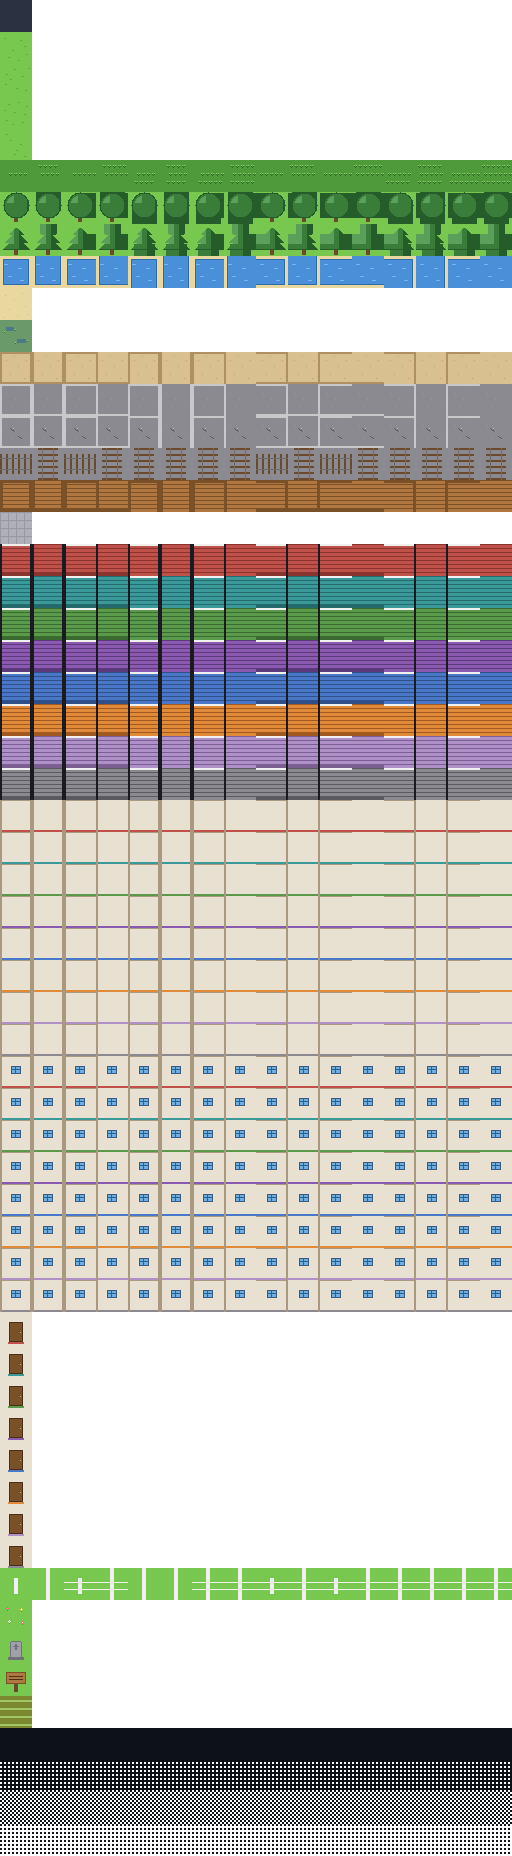
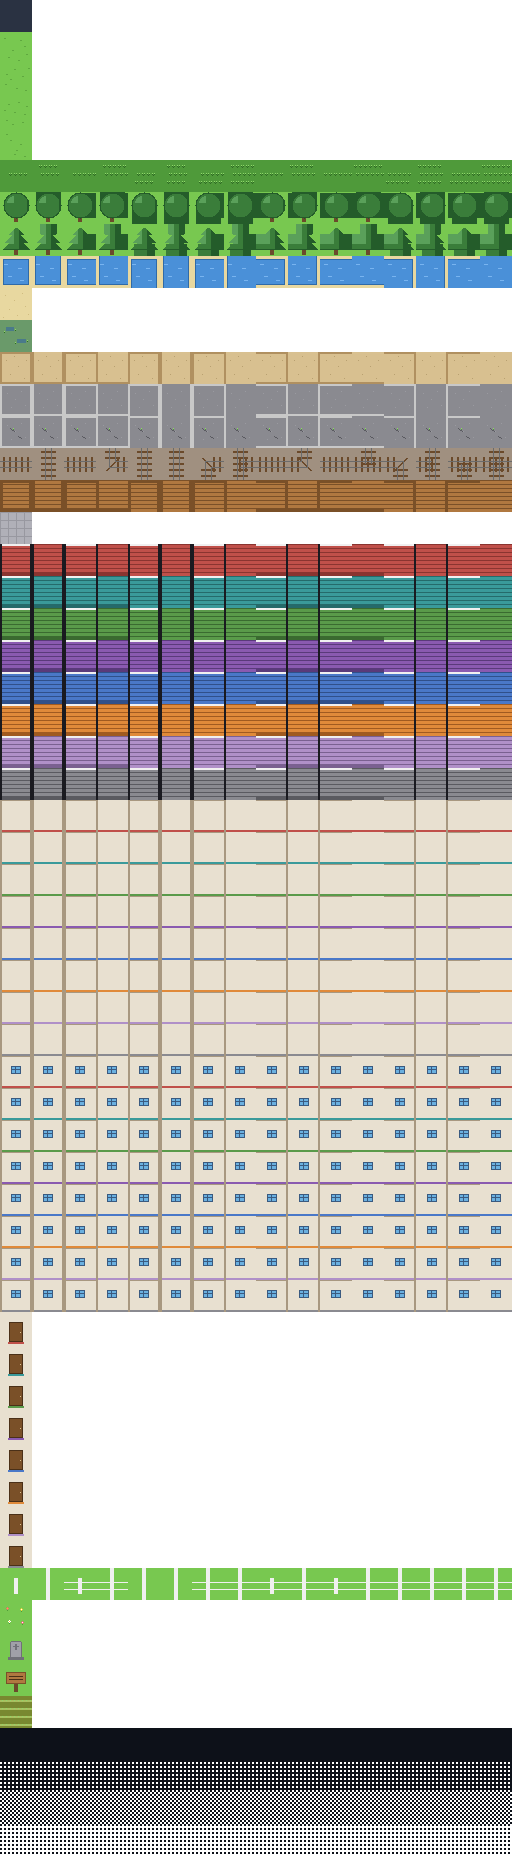
feat(item-14): connected rail art and connector tile rendering (F53)
WHY:
In pass-17 placeholder art, RAIL was rendered straight-only (vertical if N or S
was set, else horizontal) within framed tiles. A 4-connected stair-stepped
diagonal therefore rendered as a trail of disconnected, framed boxes rather
than continuous track.

WHAT WAS BUILT:
1. tools/gen_placeholder_atlas.py (§10.4):
   - Redrew RAIL as a connector tile with full-tile gravel ballast bed (#a09080)
     and no frame borders.
   - Set parallel rails 6 px apart (x=13, 19 for vertical; y=13, 19 for horizontal).
   - Rendered sleepers every 6 px across tracks under the rails.
   - Extended tracks to opposite edge when exactly 1 bit is set; east-west track
     when 0 bits are set.
   - Connected adjacent bits at the center as an L-bend (N+E, S+E, S+W, N+W),
     allowing stair-stepped diagonals to read as continuous zig-zag track.
   - Refactored build_atlas() to support direct unit testing.
2. Regenerated game/assets/tiles/placeholder_v1.png, placeholder_v1.json, and
   assets/palette/tenth_spring.gpl.
3. Added falsifying test test_rail_connected_art_falsifying in
   tools/test_gen_placeholder_atlas.py.
4. docs/ongoing_general_errors.md: F53 marked resolved in M45.

FALSIFICATION:
Ran test_rail_connected_art_falsifying against pass-17 art:
  FAIL: test_rail_connected_art_falsifying (__main__.TestGenPlaceholderAtlas.test_rail_connected_art_falsifying)
  Traceback (most recent call last):
[…]

Changed region(s): [[0.0, 0.2188, 1.0, 0.2812]]

diff --git a/tools/gen_placeholder_atlas.py b/tools/gen_placeholder_atlas.py
@@ -50,6 +50,7 @@ PALETTE = {
     "road_curb": (200, 200, 200, 255),     # #c8c8c8
     "road_crack": (90, 90, 96, 255),       # #5a5a60 / roof 7 shade
     # Rail & Bridge
+    "rail_ballast": (160, 144, 128, 255),  # #a09080
     "rail": (107, 107, 107, 255),          # #6b6b6b
     "bridge_plank": (176, 120, 64, 255),   # #b07840
     "bridge_rail": (122, 80, 40, 255),     # #7a5028 / door
@@ -145,6 +146,14 @@ class AtlasBuilder:
         py = row * TILE_SIZE + y
         idx = (py * WIDTH + px) * 4
         self.buffer[idx:idx + 4] = bytes(color)
+
+    def get_pixel(self, col: int, row: int, x: int, y: int) -> tuple:
+        if not (0 <= x < TILE_SIZE and 0 <= y < TILE_SIZE):
+            return (0, 0, 0, 0)
+        px = col * TILE_SIZE + x
+        py = row * TILE_SIZE + y
+        idx = (py * WIDTH + px) * 4
+        return tuple(self.buffer[idx:idx + 4])
 
     def fill_tile(self, col: int, row: int, color: tuple):
         for y in range(TILE_SIZE):
@@ -396,34 +405,148 @@ class AtlasBuilder:
             self.set_pixel(col, row, 13, 12, PALETTE["tall_tips"])
 
     def draw_rail(self, row: int, col: int, mask: int):
-        self.fill_tile(col, row, PALETTE["road"])  # gravel ballast
-        for sx, sy in [(5, 7), (15, 12), (25, 8), (10, 22), (22, 25)]:
-            self.set_pixel(col, row, sx, sy, PALETTE["road_speckle"])
+        ballast = PALETTE["rail_ballast"]
+        rail_col = PALETTE["rail"]
+        sleeper_col = PALETTE["tree_trunk"]
 
-        n_conn = (mask & 1) != 0
-        s_conn = (mask & 4) != 0
-        is_vert = n_conn or s_conn
+        # 1. Full-tile gravel bed (#a09080), with no frame (§10.4)
+        self.fill_tile(col, row, ballast)
 
-        if is_vert:
-            # Sleepers every 6 px
-            for y in range(TILE_SIZE):
-                if y % 6 in (0, 1):
-                    for x in range(6, 26):
-                        self.set_pixel(col, row, x, y, PALETTE["tree_trunk"])
-            # Two vertical rails
-            for y in range(TILE_SIZE):
-                self.set_pixel(col, row, 10, y, PALETTE["rail"])
-                self.set_pixel(col, row, 21, y, PALETTE["rail"])
+        # 2. Connection flags (Bit 0 = N (1), Bit 1 = E (2), Bit 2 = S (4), Bit 3 = W (8))
+        n = (mask & 1) != 0
+        e = (mask & 2) != 0
+        s = (mask & 4) != 0
+        w = (mask & 8) != 0
+
+        # With no bits set, it runs east–west (§10.4)
+        if not (n or e or s or w):
+            e = True
+            w = True
         else:
-            # Sleepers every 6 px
-            for x in range(TILE_SIZE):
-                if x % 6 in (0, 1):
-                    for y in range(6, 26):
-                        self.set_pixel(col, row, x, y, PALETTE["tree_trunk"])
-            # Two horizontal rails
-            for x in range(TILE_SIZE):
-                self.set_pixel(col, row, x, 10, PALETTE["rail"])
-                self.set_pixel(col, row, x, 21, PALETTE["rail"])
+            set_count = (1 if n else 0) + (1 if e else 0) + (1 if s else 0) + (1 if w else 0)
+            if set_count == 1:
+                # With exactly one bit set, track also runs to opposite edge (straight end piece)
+                if n: s = True
+                elif s: n = True
+                elif e: w = True
+                elif w: e = True
+
+        # 3. Sleepers (drawn first, across rails every 6 px)
+        # Vertical arms: sleepers across x in [9, 23]
+        if n:
+            for sy in (3, 4, 9, 10):
+                for sx in range(9, 24):
+                    self.set_pixel(col, row, sx, sy, sleeper_col)
+        if s:
+            for sy in (21, 22, 27, 28):
+                for sx in range(9, 24):
+                    self.set_pixel(col, row, sx, sy, sleeper_col)
+        # Horizontal arms: sleepers across y in [9, 23]
+        if w:
+            for sx in (3, 4, 9, 10):
+                for sy in range(9, 24):
+                    self.set_pixel(col, row, sx, sy, sleeper_col)
+        if e:
+            for sx in (21, 22, 27, 28):
+                for sy in range(9, 24):
+                    self.set_pixel(col, row, sx, sy, sleeper_col)
+
+        # Center sleepers
+        if n and s and not (e or w):
+            for sy in (15, 16):
+                for sx in range(9, 24):
+                    self.set_pixel(col, row, sx, sy, sleeper_col)
+        elif e and w and not (n or s):
+            for sx in (15, 16):
+                for sy in range(9, 24):
+                    self.set_pixel(col, row, sx, sy, sleeper_col)
+        elif n and e and not (s or w):
+            for d in range(-6, 7):
+                cx, cy = 16 + d, 16 - d
+                self.set_pixel(col, row, cx, cy, sleeper_col)
+                self.set_pixel(col, row, cx + 1, cy, sleeper_col)
+        elif s and e and not (n or w):
+            for d in range(-6, 7):
+                cx, cy = 16 + d, 16 + d
+                self.set_pixel(col, row, cx, cy, sleeper_col)
+                self.set_pixel(col, row, cx + 1, cy, sleeper_col)
+        elif s and w and not (n or e):
+            for d in range(-6, 7):
+                cx, cy = 16 + d, 16 - d
+                self.set_pixel(col, row, cx, cy, sleeper_col)
+                self.set_pixel(col, row, cx + 1, cy, sleeper_col)
+        elif n and w and not (s or e):
+            for d in range(-6, 7):
+                cx, cy = 16 + d, 16 + d
+                self.set_pixel(col, row, cx, cy, sleeper_col)
+                self.set_pixel(col, row, cx + 1, cy, sleeper_col)
+        elif (n or s) and (e or w):
+            for sy in (15, 16):
+                for sx in range(9, 24):
+                    self.set_pixel(col, row, sx, sy, sleeper_col)
+            for sx in (15, 16):
+                for sy in range(9, 24):
+                    self.set_pixel(col, row, sx, sy, sleeper_col)
+
+        # 4. Rails (two rails 6 px apart, meeting at centre)
+        if n and e and not (s or w):
+            # L-bend N + E
+            for y in range(0, 14):
+                self.set_pixel(col, row, 19, y, rail_col)
+            for x in range(19, 32):
+                self.set_pixel(col, row, x, 13, rail_col)
+            for y in range(0, 20):
+                self.set_pixel(col, row, 13, y, rail_col)
+            for x in range(13, 32):
+                self.set_pixel(col, row, x, 19, rail_col)
+        elif s and e and not (n or w):
+            # L-bend S + E
+            for y in range(13, 32):
+                self.set_pixel(col, row, 13, y, rail_col)
+            for x in range(13, 32):
+                self.set_pixel(col, row, x, 13, rail_col)
+            for y in range(19, 32):
+                self.set_pixel(col, row, 19, y, rail_col)
+            for x in range(19, 32):
+                self.set_pixel(col, row, x, 19, rail_col)
+        elif s and w and not (n or e):
+            # L-bend S + W
+            for y in range(13, 32):
+                self.set_pixel(col, row, 19, y, rail_col)
+            for x in range(0, 20):
+                self.set_pixel(col, row, x, 13, rail_col)
+            for y in range(19, 32):
+                self.set_pixel(col, row, 13, y, rail_col)
+            for x in range(0, 14):
+                self.set_pixel(col, row, x, 19, rail_col)
+        elif n and w and not (s or e):
+            # L-bend N + W
+            for y in range(0, 14):
+                self.set_pixel(col, row, 13, y, rail_col)
+            for x in range(0, 14):
+                self.set_pixel(col, row, x, 13, rail_col)
+            for y in range(0, 20):
+                self.set_pixel(col, row, 19, y, rail_col)
+            for x in range(0, 20):
+                self.set_pixel(col, row, x, 19, rail_col)
+        else:
+            # Straight tracks or T/4-way junctions
+            if n:
+                for y in range(0, 16):
+                    self.set_pixel(col, row, 13, y, rail_col)
+                    self.set_pixel(col, row, 19, y, rail_col)
+            if s:
+                for y in range(16, 32):
+                    self.set_pixel(col, row, 13, y, rail_col)
+                    self.set_pixel(col, row, 19, y, rail_col)
+            if w:
+                for x in range(0, 16):
+                    self.set_pixel(col, row, x, 13, rail_col)
+                    self.set_pixel(col, row, x, 19, rail_col)
+            if e:
+                for x in range(16, 32):
+                    self.set_pixel(col, row, x, 13, rail_col)
+                    self.set_pixel(col, row, x, 19, rail_col)
 
     def draw_bridge(self, row: int, col: int, mask: int):
         self.fill_tile(col, row, PALETTE["bridge_plank"])
@@ -679,8 +802,8 @@ class AtlasBuilder:
 
         return png_header + ihdr_chunk + idat_chunk + iend_chunk
 
-def generate_atlas_assets():
-    """Generates placeholder_v1.png, placeholder_v1.json, and tenth_spring.gpl."""
+def build_atlas():
+    """Builds AtlasBuilder, json_data dict, and gpl string."""
     # Define row allocations
     row_specs = []
     current_row = 0
@@ -813,8 +936,6 @@ def generate_atlas_assets():
     builder.draw_fog(fog_d50, 50)
     builder.draw_fog(fog_d25, 25)
 
-    png_bytes = builder.to_png_bytes()
-
     json_data = {
         "tile_px": TILE_SIZE,
         "rows": row_specs,
@@ -825,9 +946,14 @@ def generate_atlas_assets():
             "d25": fog_d25,
         },
     }
-    json_bytes = json.dumps(json_data, indent=2).encode("utf-8") + b"\n"
-    gpl_bytes = make_gpl_content().encode("utf-8")
+    return builder, json_data, make_gpl_content()
 
+def generate_atlas_assets():
+    """Generates placeholder_v1.png, placeholder_v1.json, and tenth_spring.gpl."""
+    builder, json_data, gpl_str = build_atlas()
+    png_bytes = builder.to_png_bytes()
+    json_bytes = json.dumps(json_data, indent=2).encode("utf-8") + b"\n"
+    gpl_bytes = gpl_str.encode("utf-8")
     return png_bytes, json_bytes, gpl_bytes
 
 def main():

diff --git a/tools/test_gen_placeholder_atlas.py b/tools/test_gen_placeholder_atlas.py
@@ -137,5 +137,29 @@ class TestGenPlaceholderAtlas(unittest.TestCase):
             self.assertTrue(0 <= g <= 255)
             self.assertTrue(0 <= b <= 255)
 
+    def test_rail_connected_art_falsifying(self):
+        """Falsifying assertion per agent guide §4 (Item 14):
+        In the RAIL tile for mask N + E (0b0011):
+        - Pixels at the centre of the north edge (y=0) and east edge (x=31) are rail colour.
+        - Pixels at the centre of the south edge (y=31) and west edge (x=0) are gravel/ballast."""
+        from gen_placeholder_atlas import build_atlas, PALETTE
+        builder, _, _ = build_atlas()
+        # Rail row is 14, mask N + E is 0b0011 = 3
+        rail_color = PALETTE["rail"]
+
+        # North edge: centre pixels have rail colour
+        north_center_has_rail = any(builder.get_pixel(3, 14, x, 0) == rail_color for x in range(32))
+        # East edge: centre pixels have rail colour
+        east_center_has_rail = any(builder.get_pixel(3, 14, 31, y) == rail_color for y in range(32))
+        # South edge: centre pixels do NOT have rail colour (gravel/ballast)
+        south_center_has_rail = any(builder.get_pixel(3, 14, x, 31) == rail_color for x in range(32))
+        # West edge: centre pixels do NOT have rail colour (gravel/ballast)
+        west_center_has_rail = any(builder.get_pixel(3, 14, 0, y) == rail_color for y in range(32))
+
+        self.assertTrue(north_center_has_rail, "North edge should have rail colour")
+        self.assertTrue(east_center_has_rail, "East edge should have rail colour")
+        self.assertFalse(south_center_has_rail, "South edge should NOT have rail colour (expected gravel)")
+        self.assertFalse(west_center_has_rail, "West edge should NOT have rail colour (expected gravel)")
+
 if __name__ == "__main__":
     unittest.main()

diff --git a/docs/ongoing_general_errors.md b/docs/ongoing_general_errors.md
@@ -830,15 +830,25 @@ Godot's built-in `Crypto` lacks X25519/AEAD and has no mDNS. We need libsodium (
   - Path tiles: **16.6%** (target ≤ 18%, baseline 30.6%) — **PASS**
   - Placement rate: **32.5%** (target ≥ 45%, baseline ≈ 9.5%) — **TARGET MISSED** (improved 3.4x, filed Decision 28).
 
+**M45 — Connected Rail Art (F53, 2026-10-20, pass 18; Item 14).**
+- **What was solved:**
+  - Redrew `RAIL` in `tools/gen_placeholder_atlas.py` as a seamless connector tile per §10.4:
+    - Full-tile gravel ballast bed (`#a09080` / `PALETTE["rail_ballast"]`), with no frame borders.
+    - Two parallel rails 6 px apart (`x=13, 19` for vertical; `y=13, 19` for horizontal) running from center to connected edges.
+    - Sleepers every 6 px across tracks (`PALETTE["tree_trunk"]`), rendered under the rails.
+    - Opposite-edge extension for single connected bits (straight end pieces); east-west track when 0 bits set.
+    - L-bends meeting at center for adjacent bits (e.g. N + E, S + E, S + W, N + W), allowing 4-connected stair-stepped diagonals to read as continuous zig-zag lines.
+  - Regenerated `game/assets/tiles/placeholder_v1.png`, `placeholder_v1.json`, and `assets/palette/tenth_spring.gpl`.
+  - Added falsifying assertion `test_rail_connected_art_falsifying` in `tools/test_gen_placeholder_atlas.py`. All 5 atlas tests pass and byte-for-byte regeneration is preserved.
+
 ---
 
 ## 🔎 Verification Findings — open, for the next agent
 
-*F35, F36, and F38 were verified fixed in pass 16 — see M21–M23 above. F42 verified fixed in M25; F40 verified fixed in M26; F41 verified fixed in M27; F37 verified fixed in M28; F39 (converter half) verified resolved in M29. Slice 1 verified with corrections in M31 (pass 17); F48 fixed there. F43 verified fixed in M32 (Item 0). F44 and F45 (a, b, c, e) verified fixed in M33 (Item 1); Decision 16 marked "built". F46 and F50 verified fixed in M34 (Item 2). F47 verified fixed in M35 (Item 3). Item 11 (IP guard GBA rule) verified built in M36. F43, F44, F45 (a, b, c, e), F46, F47, and F50 were re-verified in pass 18 (M43). F51 verified resolved in M44.*
+*F35, F36, and F38 were verified fixed in pass 16 — see M21–M23 above. F42 verified fixed in M25; F40 verified fixed in M26; F41 verified fixed in M27; F37 verified fixed in M28; F39 (converter half) verified resolved in M29. Slice 1 verified with corrections in M31 (pass 17); F48 fixed there. F43 verified fixed in M32 (Item 0). F44 and F45 (a, b, c, e) verified fixed in M33 (Item 1); Decision 16 marked "built". F46 and F50 verified fixed in M34 (Item 2). F47 verified fixed in M35 (Item 3). Item 11 (IP guard GBA rule) verified built in M36. F43, F44, F45 (a, b, c, e), F46, F47, and F50 were re-verified in pass 18 (M43). F51 verified resolved in M44. F53 verified resolved in M45.*
 - **F52 — the overview zoom is far too slow.** `FRAME_P95_MS` at zoom 1/16 measured **86.92 ms** against the 16.6 ms target (M42).
   - **Cause:** synthesis costs about **9.3 ms per cell** on real data (measured this pass) and runs on the main thread. The 8 ms budget (`map_view.gd:19`, `:597`) is checked only *between* cells, so every frame still pays for at least one whole cell. The overview needs ~300 cells.
   - **Agent guide Item 15.**
-- **F53 — diagonal rail lines look like a row of separate boxes.** The atlas draws `RAIL` straight only — vertical if N or S is set, else horizontal (`tools/gen_placeholder_atlas.py:398-446`) — and frames each tile. So a stair-stepped diagonal reads as disconnected pieces. **Agent guide Item 14.**
 - **F45(d) — whole-state conversion on PC.** The in-game download still converts the whole region extract. **Decision 23 = A:** only famous places are converted, each as a fixed unit from the pinned snapshot — agent guide Item 18.
 - **F49 (minor) — memguard `run` logs a peak of 0.0 GiB for steps shorter than its 2 s poll.** It sleeps `POLL_SECONDS = 2.0` (`tools/memguard.py:26`) before its first sample, so every guarded `godot_tests` run logs 0.0. Harmless to safety — a 2-second step can't run away — but misleading in the log. **Deferred** (guide §9).
 - **F39 (found 2026-10-10, 15th pass) — the game's heavy operations had no memory limits.**
